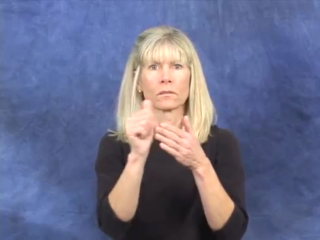
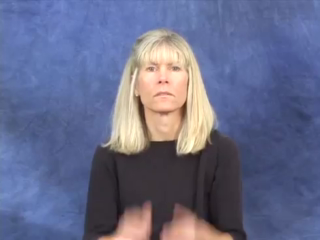
Add index iteration

Changed region(s): [[0.25, 0.0875, 0.7812, 1.0], [0.75, 0.7, 0.7812, 0.7583]]

diff --git a/index.js b/index.js
@@ -9,7 +9,7 @@ const posenet = require('@tensorflow-models/posenet')
 const videoProcessor = require('./video_processor')
 fs = require('fs');
 
-const drawKeypoints = (name, canvas, keypoints) => {
+const drawKeypoints = (name, index, canvas, keypoints) => {
   ctx = canvas.getContext('2d');
   keypoints.forEach((key, index) => {
     if (index > 4 && index < 11) {
@@ -22,11 +22,11 @@ const drawKeypoints = (name, canvas, keypoints) => {
     }
   });
   const buf = canvas.toBuffer();
-  fs.writeFileSync(`./images/${name}/${name}-result.jpg`, buf);
+  fs.writeFileSync(`./images/${name}/r${name}_${index}.jpg`, buf);
 }
 
-const run = async (name) => {
-  let img_path = `./images/${name}/${name}_2.png`;
+const run = async (name, index) => {
+  let img_path = `./images/${name}/${name}_${index}.png`;
   let { Response } = fetch;
   let stream = fs.createReadStream(img_path);
   let buffer = await new Response(stream).buffer()
@@ -35,16 +35,22 @@ const run = async (name) => {
   const canvas = createCanvas(img.width,img.height);
   canvas.getContext('2d').drawImage(img, 0, 0);
 
-  const imageScaleFactor = 0.5;
+  const imageScaleFactor = 1;
   const flipHorizontal = false;
   const outputStride = 8;
-  const multiplier = 0.5;
+  const multiplier = 1.01;
 
   const net  = await posenet.load(multiplier);
   const pose = await net.estimateSinglePose(canvas, imageScaleFactor, flipHorizontal, outputStride);
-  drawKeypoints(name, canvas, pose.keypoints);
+  drawKeypoints(name, index, canvas, pose.keypoints);
   return pose;
 }
 
-videoProcessor.generateImages('1_dollar');
-run('1_dollar');
+const main = async () => {
+  const length =  10;
+  await videoProcessor.generateImages('1_dollar', length);
+  [...Array(length)].map((i, index) =>
+    run('1_dollar', index + 1));
+}
+
+main();

diff --git a/video_processor.js b/video_processor.js
@@ -1,11 +1,16 @@
 var fs = require('fs');
 var ffmpeg = require('fluent-ffmpeg');
 
-const generateImages = (name) => {
-  const command = ffmpeg(`./videos/${name}.mp4`);
+const generateProcentage = (number) => [...Array(number)]
+  .map((i, index) => `${index * (100 / number) + ( 100 / number / 2 )}%`);
+
+const generateImages = async (name, length) => {
+  console.log(generateProcentage(length));
+  
+  const command = await ffmpeg(`./videos/${name}.mp4`);
   if (!fs.existsSync(name)) { fs.mkdirSync(name); }
-  command.screenshots({
-    timestamps: ['20%', '40%', '60%', '80%'],
+  await command.screenshots({
+    timestamps: generateProcentage(length),
     filename: `${name}.png`,
     folder: `./images/${name}`,
     size: '320x240',
